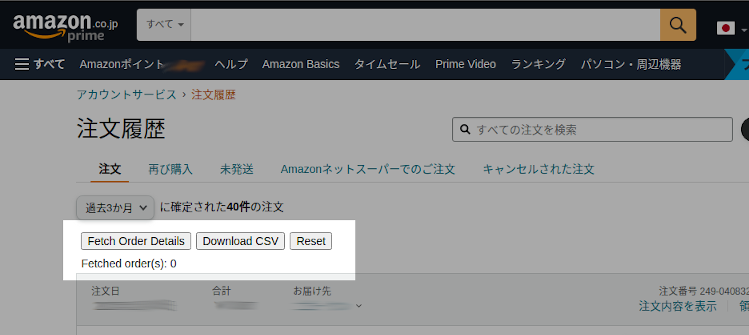
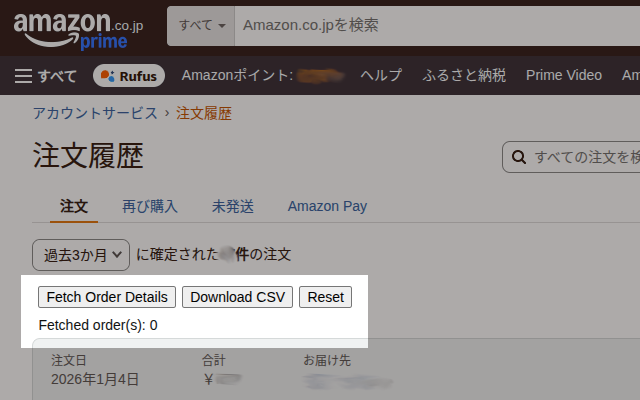
Handle AMZ JP page DOM major changes in 2025
Many signifcant changes in the page DOM:
- Invoice page was using HTML table layout, but now is pure div layout. Fortunately they now have a new data-component attribute which generally makes extracting values easier.
- Digital order invoice is using the same div layout as normal orders, so we can now support it "for free".
- Cancelled / Returned items are now structured differently, previously it was on the invoice level, now there is a shipment status on the order list level.
Not exactly sure when the DOM changes happened, but since it worked last time I used it in 2025 Jan, and today is 2026 Jan, so it must have been some time in 2025.

Eahanced the status display for current page details: now it's easier to check the page has correctly fetched 10 orders, and how many items.
This makes it easier to check the fetch was correct. Previously it could show an order fetched but actually failing or missing to fetch any items in the invoice page.

diff --git a/src/js/content-script.js b/src/js/content-script.js
@@ -17,10 +17,19 @@ const STORE_KEY_ORDER_COUNT = "HIST_ADDON_COUNT";
 const STORE_KEY_DATE_MAX = 'HIST_ADDON_DATE_MAX';
 const STORE_KEY_DATE_MIN = 'HIST_ADDON_DATE_MIN';
 
+const CurrentPageStatus = Object.freeze({
+  DEFAULT: 'DEFAULT',
+  PROCESSING: 'PROCESSING',
+  COMPLETED: 'COMPLETED'
+});
+
 // global vars
 
 let statusDiv = null;
-let pageCompleted = false;
+let currPageStatus = CurrentPageStatus.DEFAULT;
+let currPageOrderCount = 0;
+let currPageOrderCountCancelled = 0;
+let currPageItemCount = 0;
 
 // the addon runs on the order history page. strangely, there isn't just one URL for it.
 // depending on where you click from, Amazon JP may show order history at one of the several URLs. 
@@ -91,15 +100,35 @@ function addPadding(e) {
 function getStatusText() {
   // if there is a count, then we have fetched something, so there must also be dates
   if (sessionStorage.getItem(STORE_KEY_ORDER_COUNT)) {
-    return 'Fetched order(s): ' + sessionStorage.getItem(STORE_KEY_ORDER_COUNT) + '. Date(s): ' 
+    return 'Total fetched order(s): ' + sessionStorage.getItem(STORE_KEY_ORDER_COUNT) + '. Date(s): ' 
       + sessionStorage.getItem(STORE_KEY_DATE_MIN) + ' to ' + sessionStorage.getItem(STORE_KEY_DATE_MAX) + '. '
-      + (pageCompleted ? 'Page completed' : '');
+      + getCurrPageStatusText();
   }
   return "Fetched order(s): 0";
 }
 
+function getCurrPageStatusText() {
+  if (currPageStatus === CurrentPageStatus.COMPLETED) {
+    let text = '<br/>Current page completed: ' + currPageOrderCount + ' order(s)';
+    if (currPageOrderCountCancelled > 0) {
+      text = text + ' (' + currPageOrderCountCancelled + ' cancelled)';
+    }
+    text = text + ' ' + currPageItemCount + ' items';
+    return text;
+  } else if (currPageStatus === CurrentPageStatus.PROCESSING) {
+    return '<br/>Current page processing...';
+  }
+  return '';
+}
+
 async function onClickFetchAllOrdersOnCurrentPage() {
   console.log("start fetch");
+
+  currPageStatus = CurrentPageStatus.PROCESSING;
+  currPageOrderCount = 0;
+  currPageOrderCountCancelled = 0;
+  currPageItemCount = 0;
+
   const orderCardsArray = Array.from(orderCards);
   // // DEBUG
   // let testCount = 0;
@@ -109,14 +138,13 @@ async function onClickFetchAllOrdersOnCurrentPage() {
     const orderID = orderIDDesc.match(orderIDRegEx)[0];
     console.log(orderID);
 
-    // the digital purchase invoice page is a completely different DOM structure
-    // i don't use it much for now so ignore it TODO show this as warning on page 
-    if (orderID.startsWith('D')) {
-      console.warn("Skipping: do not support Digital purchase yet: " + orderID);
-      continue;
+    if (isCancelledOrder(orderCardElement)) {
+      console.info("Cancelled order: " + orderID)
+      ++currPageOrderCountCancelled;
+      incOrderCount();
+    } else {
+      await fetchInvoicePage(orderID);
     }
-
-    await fetchInvoicePage(orderID);
 
     // // DEBUG: only get 2 orders for test
     // if (++testCount == 2) {
@@ -124,10 +152,15 @@ async function onClickFetchAllOrdersOnCurrentPage() {
     //   return;
     // }
   }
-  pageCompleted = true;
+  currPageStatus = CurrentPageStatus.COMPLETED;
   statusDiv.innerHTML = getStatusText();
 
   console.log('fetch end');
+}
+
+function isCancelledOrder(orderCardElement) {
+  const shipStatusText = orderCardElement.querySelector(".yohtmlc-shipment-status-primaryText")?.textContent;
+  return shipStatusText && (shipStatusText.includes('キャンセル済み') || shipStatusText.includes('返品商品を受領済み'));
 }
 
 async function fetchInvoicePage(orderID) {
@@ -189,28 +222,36 @@ function incOrderCount() {
     orderCount = Number(orderCount) + 1;
   }
   sessionStorage.setItem(STORE_KEY_ORDER_COUNT, orderCount);
+
+  ++currPageOrderCount;
 }
 
 function getOrderItemsOnInvoicePage(pageDom, orderDetails) {
-  // not much identifier to find the products as the structure is mainly nested tables
-  // but noted there is an <input type="hidden"> element in each product row
-  // so use that as anchor, then find the parent (<tr>). the two child <td>s are product details and price
-  // the product name itself happens to be in <i>, so use that to extract.
-  // structure:
-  // <tr>
-  // <input type=hidden>
-  // <td> {count} <i>{product name}</i> {seller}
-  // <td> Yen {price}
-  const inputElements = pageDom.getElementsByTagName('input');
-  const hiddenInputs = Array.from(inputElements).filter(i => i.getAttribute('type') === 'hidden');
-  for (let hiddenInput of hiddenInputs) {
-    // not sure what this is, but this is not the element we look for in the product row
-    if (hiddenInput.name === 'ue_back') {
-      continue;
-    }
-    const productRow = hiddenInput.parentElement;
-    const productName = productRow.getElementsByTagName('i')[0].textContent;
-    const productPriceMatch = productRow.getElementsByTagName('td')[1].textContent.match(priceRegEx);
+
+  // the item nesting is not consistent.
+  // sometimes it can be a single div[data-component="purchasedItems"] containing multiple items,
+  // but sometimes it can multiple divs of "purchasedItems"
+  // so just ignore the specific nesting, just get the list of grids
+
+  // most of the required details are in the right grid (the purchase item details),
+  // but annoyingly for multiple quantity the value is only in the left grid (the purhcase item image).
+  // so need to get both, and sanity check that both grids have same number of rows.
+  const productRowsLeft = pageDom.querySelectorAll('div[data-component="purchasedItemsLeftGrid"]');
+  const productRowsRight = pageDom.querySelectorAll('div[data-component="purchasedItemsRightGrid"]');
+
+  if (!productRowsLeft || !productRowsRight) {
+    throw 'Purchased item not found in order';
+  }
+  if (productRowsLeft.length != productRowsRight.length) {
+    throw 'Purchased item left and right rows not matching';
+  }
+
+  for (let i = 0; i < productRowsRight.length; ++i) {
+
+    const productRow = productRowsRight[i];
+    const productName = productRow.querySelector('div[data-component="itemTitle"]').textContent.trim();
+
+    const productPriceMatch = productRow.querySelector('div[data-component="unitPrice"]').textContent.match(priceRegEx);
     // for a returned item, it will still show up as an item line, but without a price
     if (!productPriceMatch || productPriceMatch.length != 1) {
       console.log("No price for item: " + productName);
@@ -218,9 +259,13 @@ function getOrderItemsOnInvoicePage(pageDom, orderDetails) {
     }
     // extract the price and strip thousand comma sep
     const productPrice = Number(productPriceMatch[0].replace(',', ''));
-    // price is per unit. it just happens that the hidden input value SEEMS to be the number of unit
-    // so calculate the total price as follow
-    const productCount = Number(hiddenInput.getAttribute('value'));
+
+    // price is per unit. by default qty is 1, but if > 1, the page shows a tiny number below the product image. so try extract it.
+    // NB: there is a [data-component=quantity], but it is blank, so can't use it.
+    const productImageElem = productRowsLeft[i].querySelector('div[data-component="itemImage"]');
+    const multiQty = productImageElem.querySelector('.od-item-view-qty')?.textContent.trim();
+    const productCount = multiQty ? Number(multiQty) : 1;
+
     const productTotalPrice = productPrice * productCount;
 
     // if more than 1, then add a count suffix
@@ -234,22 +279,14 @@ function getOrderItemsOnInvoicePage(pageDom, orderDetails) {
     orderItem.price = productTotalPrice;
 
     orderDetails.items.push(orderItem);
+    ++currPageItemCount;
   }
 }
 
-// getting the date element is again very tricky, as the order date (注文日) doesn't always appear in the same cell on the invoice page.
-// here are the patterns found:
-// 1. the 1st cell is "注文日".
-// 2. the 2nd cell is "注文日", but the first cell is "再発行日" (we don't want this).
-// 3. there is no "注文日" at all, but the order date is in "「定期おトク便」のご注文が確定しました <date>"
-// so the solution is to loop all the cels and try find a match
 function getOrderDateElement(pageDom) {
-  const mainTable = pageDom.getElementsByTagName('table')[1];
-  const cells = mainTable.getElementsByTagName('td');
-  for (let cell of cells) {
-    if (cell.textContent.includes('注文') && cell.textContent.includes('日')) {
-      return cell;
-    }
+  var dateElem = pageDom.querySelector('div[data-component="orderDate"]');
+  if (dateElem) {
+    return dateElem;
   }
   throw 'No date found';
 }
@@ -309,7 +346,12 @@ function onClickReset() {
   sessionStorage.removeItem(STORE_KEY_ORDER_COUNT);
   sessionStorage.removeItem(STORE_KEY_DATE_MIN);
   sessionStorage.removeItem(STORE_KEY_DATE_MAX);
-  pageCompleted = false;
+
+  currPageStatus = CurrentPageStatus.DEFAULT;
+  currPageOrderCount = 0;
+  currPageOrderCountCancelled = 0;
+  currPageItemCount = 0;
+
   warnMsg = '';
   statusDiv.innerHTML = getStatusText();
 
